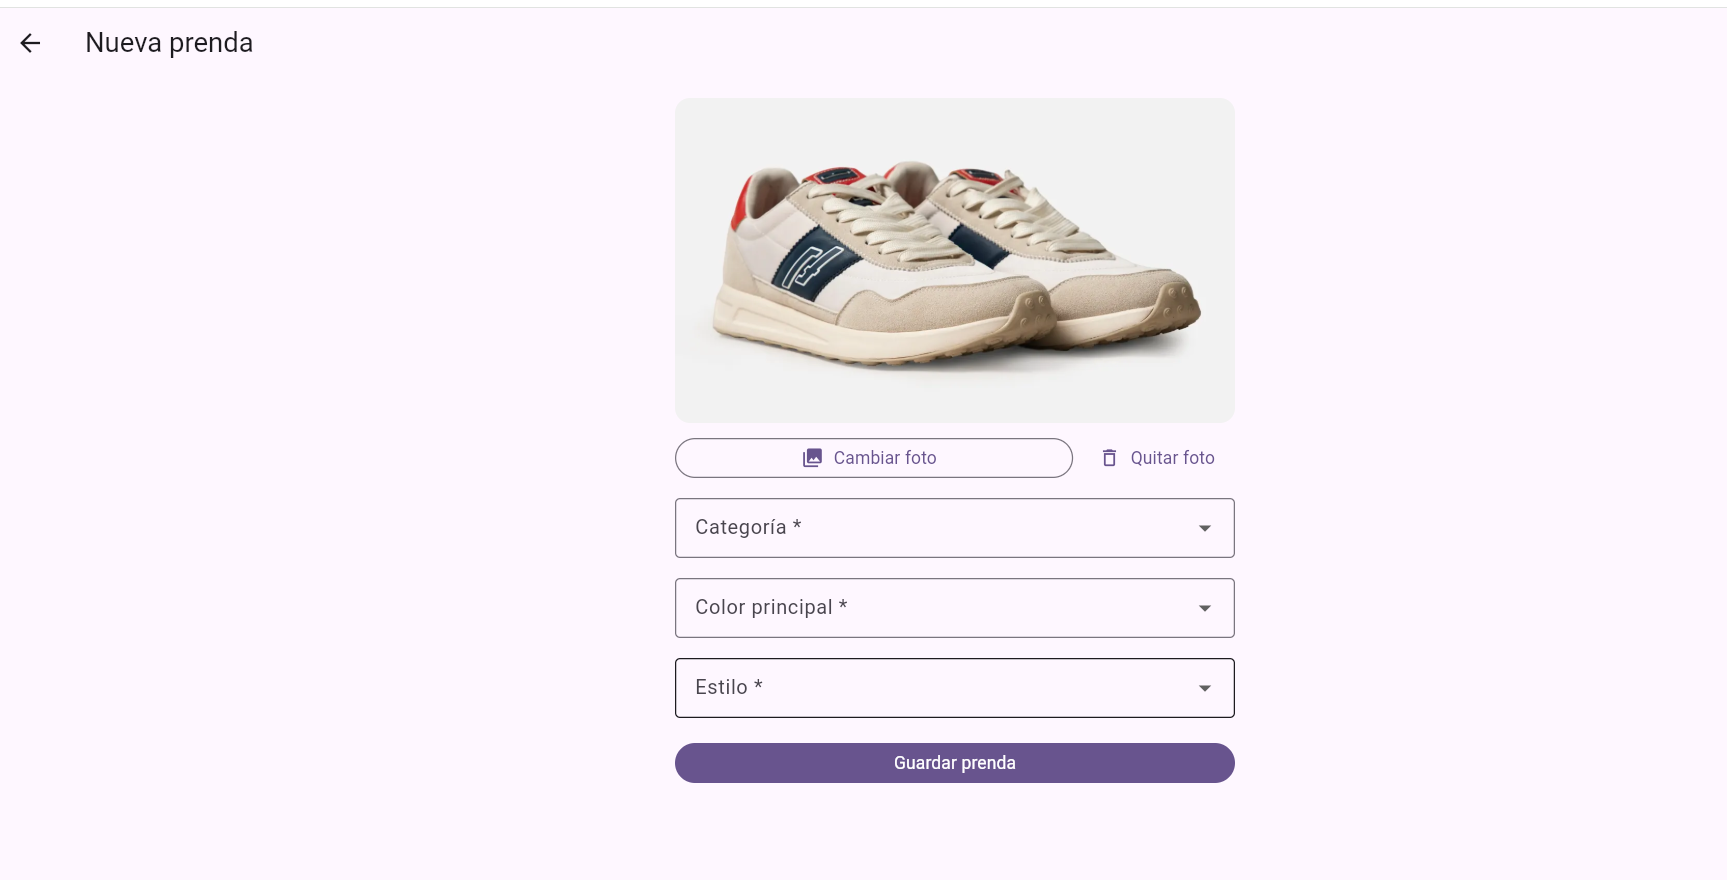
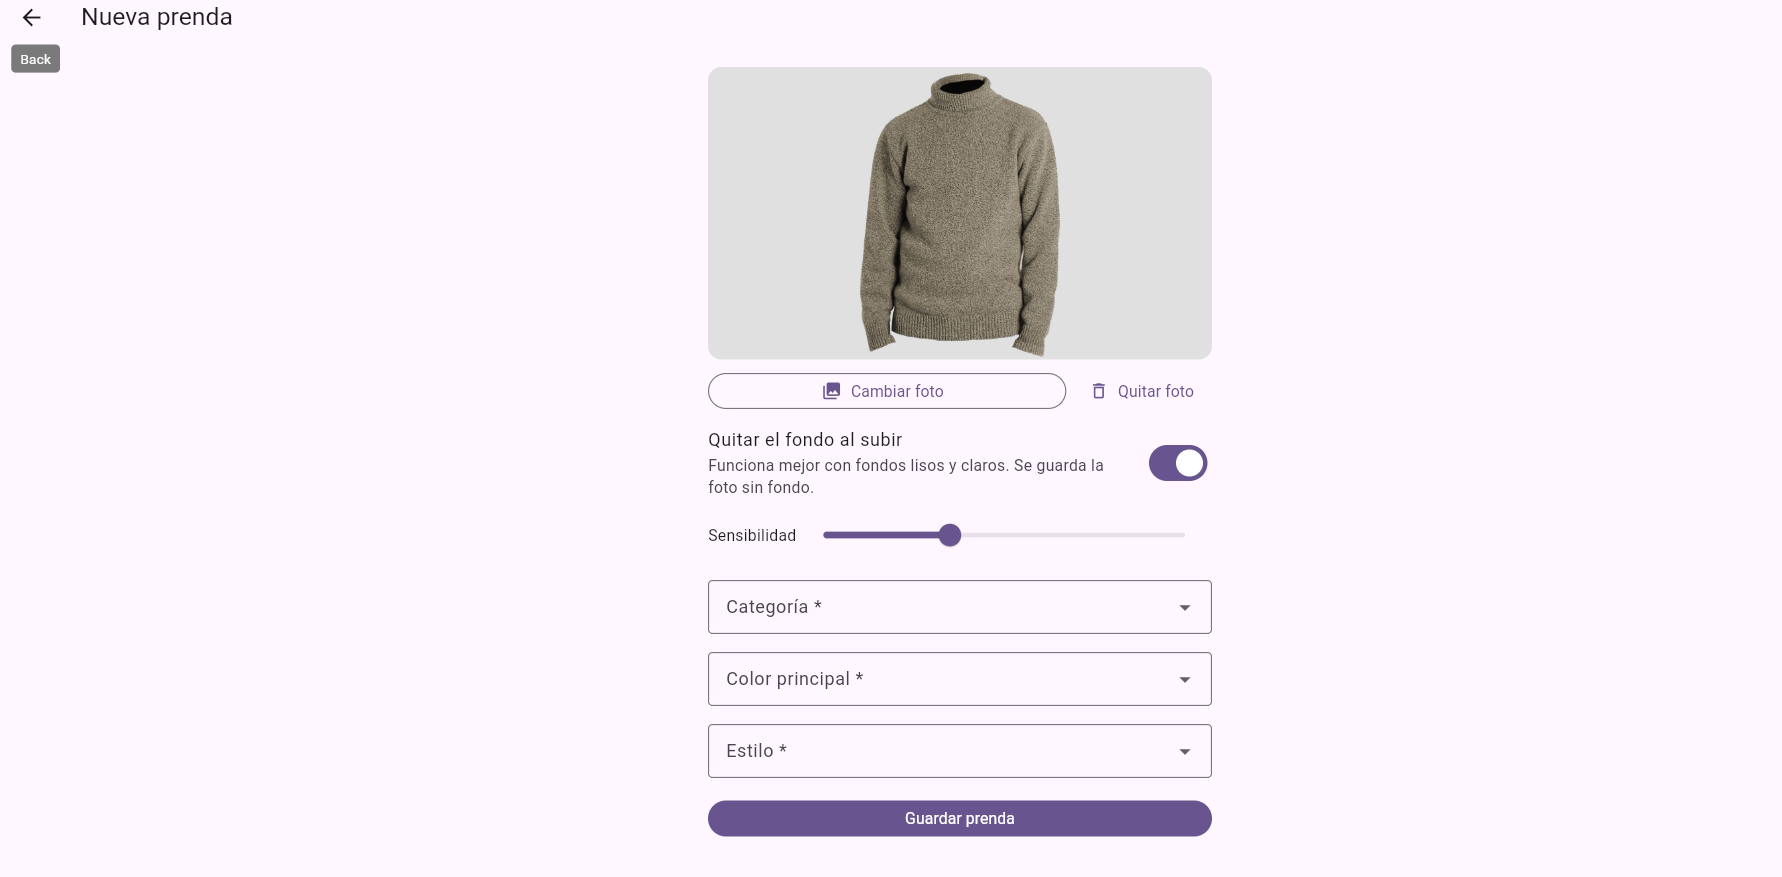
Actualiza README con funciones, seguridad y capturas

diff --git a/README.md b/README.md
@@ -1,45 +1,45 @@
 # Gum Armario Virtual
 
-Aplicación multiplataforma (Android y PC) para digitalizar tu armario con fotos, probarte prendas sobre una foto tuya de cuerpo completo, armar outfits y recibir recomendaciones de tus amigos, con todo sincronizado en tiempo real entre tus dispositivos.
+Aplicación para digitalizar tu armario con fotos, armar outfits probándote las prendas sobre una foto tuya de cuerpo completo o sobre un lienzo sin persona, y recibir recomendaciones de tus amigos, con los cambios sincronizados en tiempo real entre dispositivos.
 
-**Estado del proyecto:** en desarrollo. La versión web ya permite iniciar sesión con Google, gestionar el inventario de prendas y armar outfits. El módulo social, el probador virtual y la versión de Android están pendientes.
-
-## Funciones principales
-
-* **Inventario de prendas:** captura o carga de fotos (cámara y galería en Android, arrastrar y soltar en PC), con categoría, color y estilo obligatorios, búsqueda y filtros avanzados.
-* **Probador virtual:** modo prenda aislada y modo puesta sobre tu foto de cuerpo completo, con un modelo neutro por defecto si prefieres no subir tu foto.
-* **Outfits:** creación de combinaciones con reglas de validez (superior e inferior, o cuerpo completo), nombre y estilo obligatorios.
-* **Módulo social:** amigos vinculados por Gmail que pueden armarte sugerencias de outfits sobre tu foto, para que las aceptes o las descartes.
-* **Sincronización en tiempo real** entre Android y PC, con aviso de estado de conexión.
+**Estado del proyecto:** en desarrollo. La versión web ya cubre inicio de sesión, inventario, outfits, amigos, recomendaciones, foto personal y sincronización en tiempo real. La versión de Android y el probador con inteligencia artificial están pendientes.
 
 ## Lo que ya funciona
 
-* Inicio de sesión con Google y creación automática del perfil.
-* Alta de prendas con foto, guardada en un bucket privado de Supabase Storage.
-* Catálogo con filtros por categoría, estilo y color.
-* Edición de prendas, con reemplazo de la foto, y eliminación con confirmación.
-* Creación de outfits con validación de las reglas en la app y en la base de datos.
-* Lista de outfits con las fotos de sus prendas.
+* **Inicio de sesión con Google** y creación automática del perfil.
+* **Inventario de prendas:** alta con foto, categoría, color y estilo obligatorios, filtros, edición, reemplazo de la foto y eliminación con aviso de cuántos outfits se verían afectados.
+* **Quitar el fondo de las prendas** al subir la foto, con una vista previa y un control de sensibilidad. La prenda se guarda como PNG con transparencia.
+* **Editor de outfits:** el armario con sus categorías a un lado y el lienzo al otro. Con un toque se pone o se quita una prenda, y se puede acomodar, cambiar de tamaño, girar y voltear. Funciona sobre tu foto (modo Perfil) o sin persona (modo Sin perfil).
+* **Outfits guardados** con las reglas de validez: superior e inferior, o cuerpo completo, y una prenda por categoría salvo accesorios.
+* **Amigos por correo de Gmail:** enviar, aceptar, rechazar o cancelar solicitudes, eliminar amigos y bloquear usuarios.
+* **Recomendaciones:** un amigo te arma un outfit con tus prendas y tú lo pruebas sobre tu foto, lo aceptas o lo descartas.
+* **Perfil con foto personal** de cuerpo completo, que solo ven tus amigos confirmados.
+* **Sincronización en tiempo real:** un cambio hecho en un dispositivo aparece en los demás sin recargar, y un aviso indica cuando se pierde la conexión.
 
 ## Capturas
 
 <p>
   <img src="Documentos/Capturas/catalogo.png" alt="Catálogo de prendas con filtros" width="48%">
-  <img src="Documentos/Capturas/nueva_prenda.png" alt="Formulario para crear una prenda" width="48%">
+  <img src="Documentos/Capturas/nueva_prenda.png" alt="Alta de una prenda con recorte de fondo" width="48%">
 </p>
 
 <p>
-  <img src="Documentos/Capturas/nuevo_outfit.png" alt="Creación de un outfit" width="48%">
-  <img src="Documentos/Capturas/mis_outfits.png" alt="Lista de outfits guardados" width="48%">
+  <img src="Documentos/Capturas/editor_outfits_perfil.png" alt="Editor de outfits sobre la foto del perfil" width="48%">
+  <img src="Documentos/Capturas/editor_outfits_sin_perfil.png" alt="Editor de outfits sin perfil" width="48%">
+</p>
+
+<p>
+  <img src="Documentos/Capturas/amigos.png" alt="Amigos y solicitudes" width="48%">
+  <img src="Documentos/Capturas/perfil.png" alt="Perfil con la foto personal" width="48%">
 </p>
 
 ## Tecnologías
 
-* Flutter (Dart) para los clientes Android y PC
+* Flutter (Dart): versión web funcionando, versión de Android pendiente
 * Supabase: Auth, Storage y Realtime
 * PostgreSQL con Row Level Security (RLS) para la privacidad entre amigos
 * Google OAuth 2.0 para el inicio de sesión con Gmail
-* Compresión de imágenes en el cliente (WebP, máximo 1080p, calidad 80%)
+* Procesamiento de imágenes en el cliente: reducción de tamaño y recorte del fondo claro de las prendas
 
 ## Arquitectura
 
@@ -49,7 +49,7 @@ Aplicación multiplataforma (Android y PC) para digitalizar tu armario con fotos
 
 Haz clic en la imagen para verla en tamaño completo.
 
-El inicio de sesión se hace con Google OAuth y Supabase Auth emite el token JWT. Las consultas pasan por PostgreSQL con políticas RLS, de modo que solo el propio usuario y sus amigos confirmados pueden ver su información. Las imágenes se comprimen en el cliente antes de subirse a Supabase Storage, y Supabase Realtime mantiene los dispositivos sincronizados.
+El inicio de sesión se hace con Google OAuth y Supabase Auth emite el token JWT. Las consultas pasan por PostgreSQL con políticas RLS, de modo que solo el propio usuario y sus amigos confirmados pueden ver su información. Las imágenes se procesan en el cliente antes de subirse a buckets privados de Supabase Storage, y Supabase Realtime avisa a los dispositivos cuando algo cambia.
 
 ## Base de datos
 
@@ -59,12 +59,23 @@ El inicio de sesión se hace con Google OAuth y Supabase Auth emite el token JWT
 
 Elegí PostgreSQL con Supabase y no MySQL con un backend propio porque el proyecto necesita guardar datos, guardar fotos y avisar al otro dispositivo cuando algo cambia. Supabase ya trae Auth, Storage y Realtime, y con Row Level Security la privacidad queda en la base de datos y no en código que se me pueda olvidar repetir. Los amigos confirmados pueden ver el catálogo porque una recomendación no tiene sentido si no ven la ropa, pero solo leen: no editan ni borran nada.
 
+Los scripts están en la carpeta BaseDeDatos y se ejecutan en este orden: `schema.sql`, `amigos_funciones.sql`, `perfil_foto.sql` y `tiempo_real.sql`.
+
+## Seguridad
+
+* Todas las tablas tienen Row Level Security activado.
+* Los outfits, las solicitudes de amistad y los bloqueos se crean solo a través de funciones de la base de datos, que validan las reglas antes de guardar.
+* En las solicitudes de amistad, las recomendaciones y los perfiles, cada usuario solo puede modificar las columnas que le corresponden, nunca los identificadores ni el correo.
+* Las imágenes están en buckets privados, con una carpeta por usuario, y se muestran con enlaces temporales.
+* En la aplicación solo va la clave publishable de Supabase. La clave secreta no se usa y el archivo `env.json` no se sube al repositorio.
+* Limitación conocida de Supabase Realtime: los avisos de borrado no pasan por RLS, así que se recibe el identificador de las filas borradas, sin ningún otro dato.
+
 ## Cómo ejecutarlo
 
 Requisitos: Flutter (canal estable), un proyecto de Supabase y un cliente OAuth de Google Cloud.
 
 1. Clona el repositorio.
-2. En Supabase, abre el SQL Editor y ejecuta el contenido de `BaseDeDatos/schema.sql`.
+2. En Supabase, abre el SQL Editor y ejecuta los scripts de `BaseDeDatos` en el orden indicado arriba.
 3. En Supabase, en Authentication, activa el proveedor de Google con tu ID y secreto de cliente. Como Site URL usa `http://localhost:3000` y agrega `http://localhost:3000/**` en las Redirect URLs.
 4. Copia `App/env.example.json` como `App/env.json` y completa la URL del proyecto y la clave publishable.
 5. Desde la carpeta `App`, ejecuta:
@@ -73,8 +84,6 @@ Requisitos: Flutter (canal estable), un proyecto de Supabase y un cliente OAuth 
 flutter pub get
 flutter run -d chrome --web-port=3000 --dart-define-from-file=env.json
 ```
-
-Importante: la clave secreta de Supabase no se usa en la app y nunca debe ir en `env.json`. El archivo `env.json` está en el `.gitignore` y no se sube al repositorio.
 
 ## Documentación
 
@@ -87,10 +96,11 @@ Importante: la clave secreta de Supabase no se usa en la app y nunca debe ir en 
 
 ## Próximos pasos
 
-* Módulo social: amigos por Gmail, solicitudes y recomendaciones de outfits
-* Foto personal y probador virtual
-* Compresión de imágenes a WebP y sincronización en tiempo real
+* Revisión de seguridad de las políticas y documentación de sus resultados
 * Versión de Android con inicio de sesión nativo
+* Probador con modelo 3D y selección de maniquí para quien no tiene foto
+* Probador con inteligencia artificial generativa, como función opcional
+* Compresión de imágenes a WebP
 
 ## Autor
 
